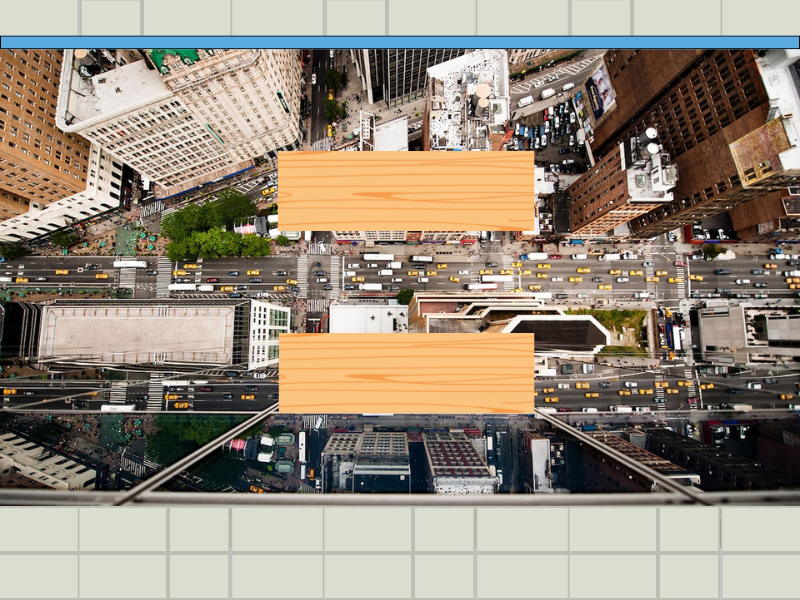
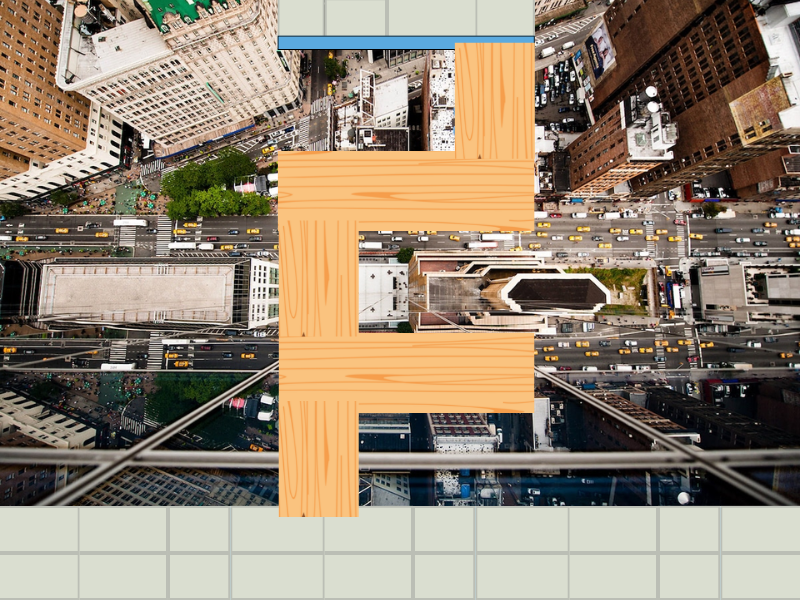
FIRST DISSAPEARING PLANK DONE + updated plankwalk image

diff --git a/Sketch.java b/Sketch.java
@@ -96,11 +96,16 @@ public class Sketch extends PApplet {
   PImage currentPlayerState;
 
   PImage exclamationMark;
+  PImage woodenPlank;
   int intExclamationY;
   float fltAlpha;
   float fltFadeSpeed = 0.5f;
 
   boolean isSwitchButtonDisplayed;
+
+  boolean plank1Show = true;
+  boolean plank2Show = true;
+  boolean plank3Show = true;
 
   public static void main(String[] args) {
     PApplet.main("Sketch2");
@@ -120,6 +125,7 @@ public class Sketch extends PApplet {
     playerBackward = loadImage("images/NerdFaceBack.png"); 
     playerLeft = loadImage("images/NerdFaceLeft.png"); 
     playerRight = loadImage("images/NerdFaceRight.png"); 
+
     setting1 = loadImage("images/BossRoom.png");
     setting2 = loadImage("images/PlankWalk.png");
     setting3 = loadImage("images/TopFloor.png");
@@ -131,9 +137,8 @@ public class Sketch extends PApplet {
 
     exclamationMark = loadImage("images/exclamation_mark.png"); 
     exclamationMark.resize(55, 55);
+    woodenPlank = loadImage("images/WoodenPlank.png");
 
-
-    
 
   }
 
@@ -322,8 +327,20 @@ public class Sketch extends PApplet {
     background(200, 100, 100);
     // Setting1 background generation
     image(setting2, 0, 0);
-    
 
+    if (plank1Show == true){
+      image(woodenPlank, 455, 401);
+    }
+
+    if (plank2Show == true){
+      image(woodenPlank,455, 221);
+    }
+
+    if (plank3Show == true){
+      image(woodenPlank, 278, 43);
+    }
+    
+    
     playerMovementPlankWalk();
     // displayExclamMark(100, 100);
     //if player hits bush or smt
@@ -599,12 +616,24 @@ public class Sketch extends PApplet {
   }
 
   public void playerMovementPlankWalk(){
-    if (isUpPressed && (intPlayerY > 10 || (intPlayerX >= 278 && intPlayerX <= 534 && intPlayerY > 0))){
+    if ((intPlayerX < 278 - 20 && intPlayerY < 506 - 50)|| (intPlayerX > width - 265 - 20 && intPlayerY < 506 - 50)) {
+      resetSettingPlankWalk();
+      return; // Exit the method to prevent further movement
+    }
+
+    //First Dissapearing Plank
+    if (intPlayerX > 455 && intPlayerX < width - 265 && intPlayerY > 413 -  50 && intPlayerY < height - 83 - 60){
+      plank1Show = false;
+      resetSettingPlankWalk();
+      return;
+    }
+    
+    if (isUpPressed && (intPlayerY > 10 )){
       intPlayerY -=3;      
       currentPlayerState = playerBackward;
 
       if (intPlayerY <= 0 && intPlayerX >= 278 && intPlayerX <= 534) {
-        intScreenNumber = 2; // Change to PlankWalk screen
+        intScreenNumber = 3; // Change to Top Floor screen
         resetSettingPlankWalk(); // Reset player position to the bottom of the new screen
       }
     }

diff --git a/Main.java b/Main.java
@@ -9,9 +9,9 @@ class Main {
   public static void main(String[] args) {
     
     String[] processingArgs = {"MySketch"};
-	  // Sketch mySketch = new Sketch();  //comment this out to run the other sketch files
+	Sketch mySketch = new Sketch();  //comment this out to run the other sketch files
 	// Sketch1 mySketch = new Sketch1();  // uncomment this to run this sketch file
-	Sketch2 mySketch = new Sketch2();  // uncomment this to run this sketch file
+	//Sketch2 mySketch = new Sketch2();  // uncomment this to run this sketch file
 	  
 	PApplet.runSketch(processingArgs, mySketch);
   }
